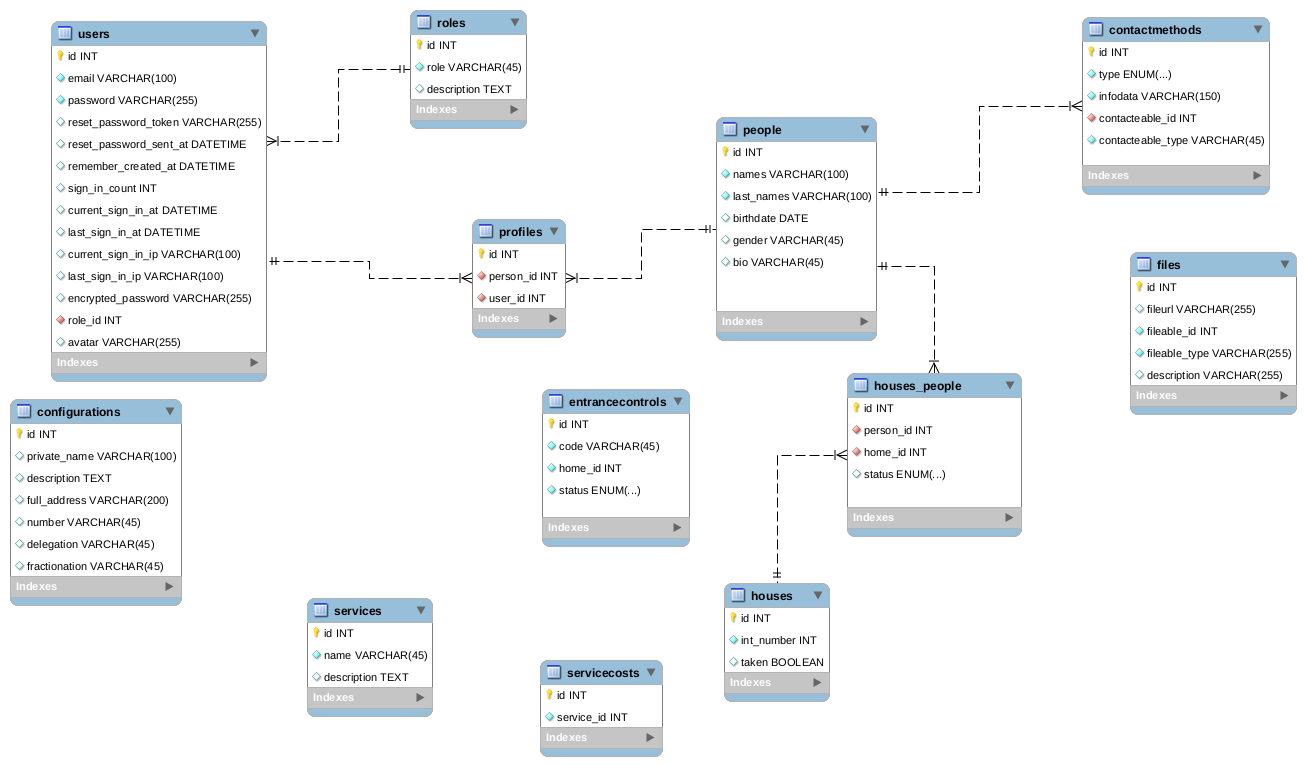
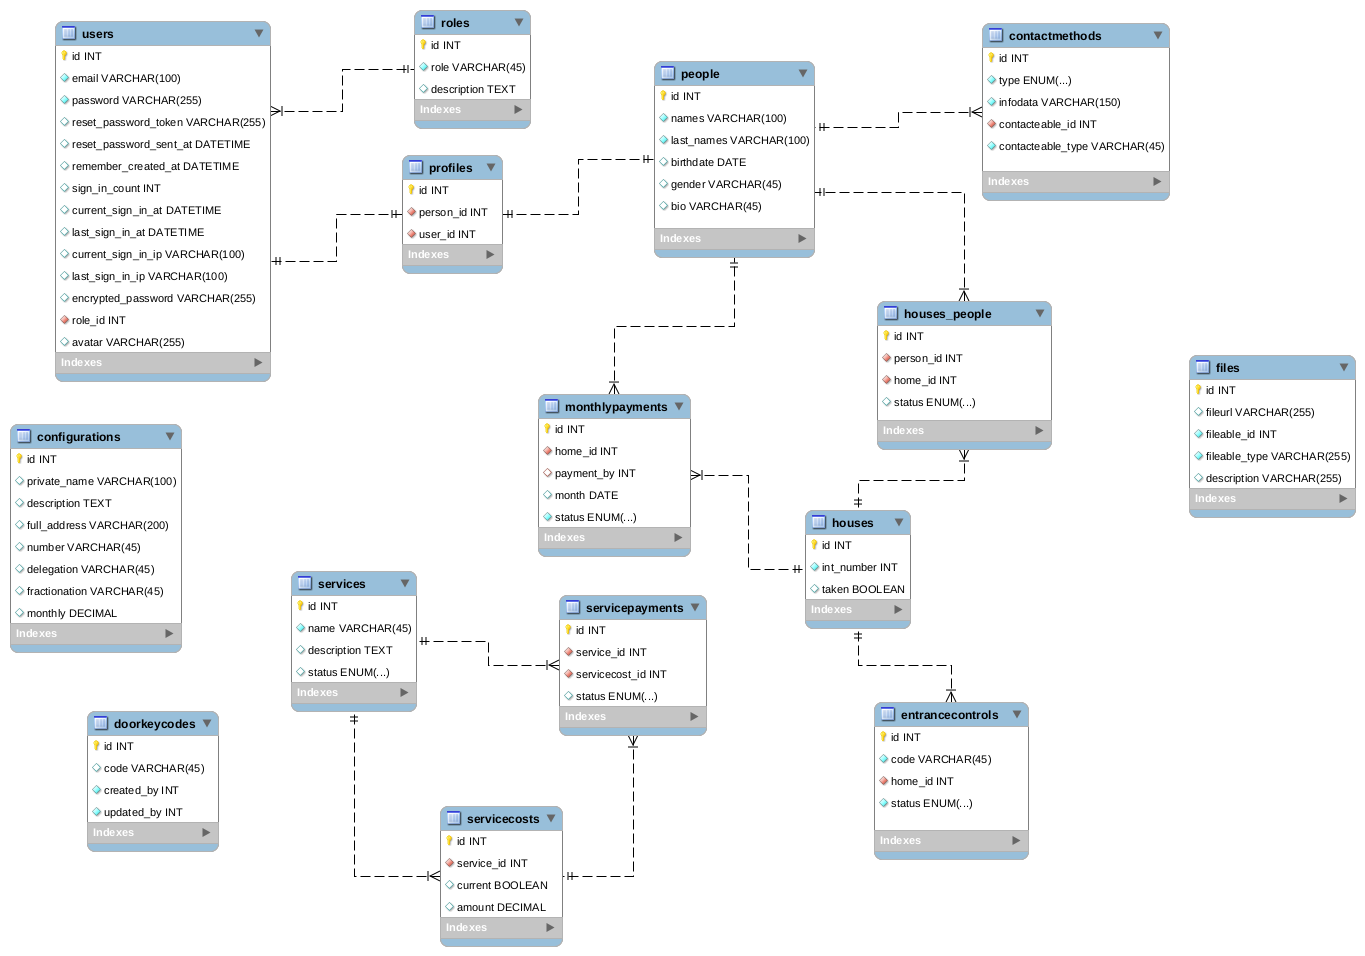
#time 1h #comment WIP se continua extendiendo el diagrama de la base de datos aqui ya se toman en cuenta los servicios y los pagos

diff --git a/README.md b/README.md
@@ -15,3 +15,5 @@ Todos los cambios se manejaran al estilo Feature Branch por lo cual solo se ara 
 si se tiene algo estable por lo cual todos los cambios se manejaran en la rama [Development](https://github.com/obelich/PokeControlPrivadas/tree/development)
 
 # Diagrama Base de Datos
+
+![alt text](adicionales/DiagramaPokeControlPrivadasDB.png "Logo Title Text 1")
